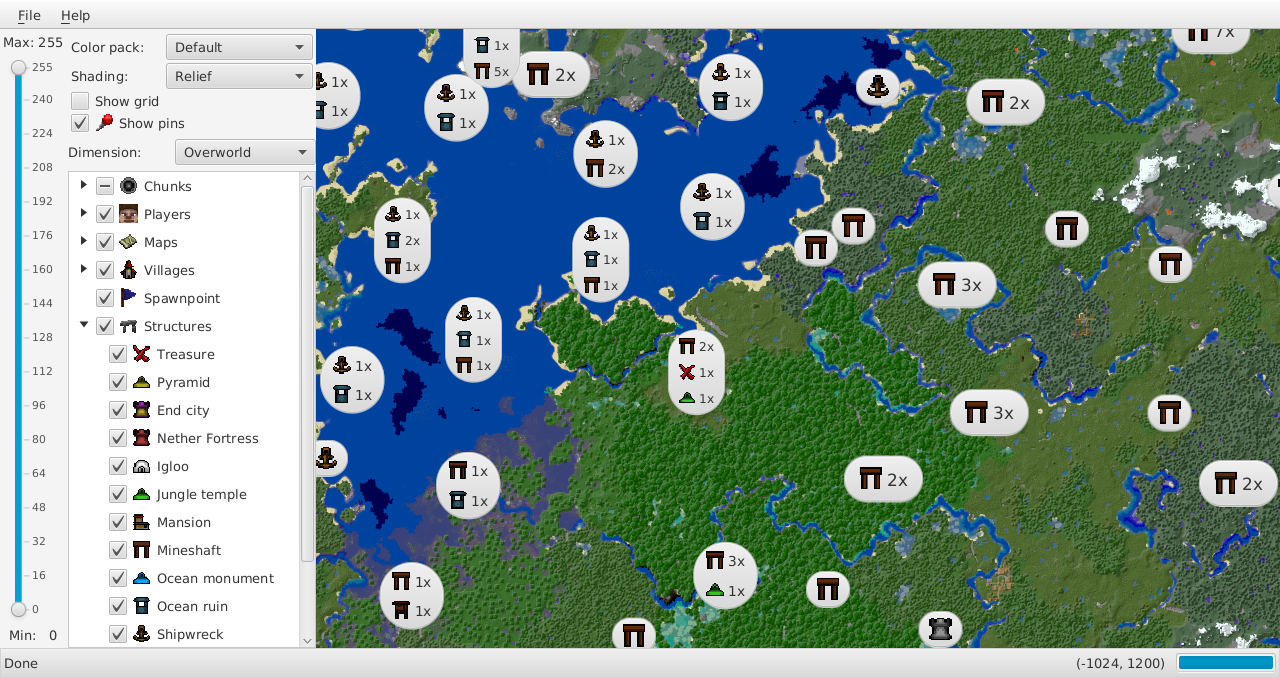
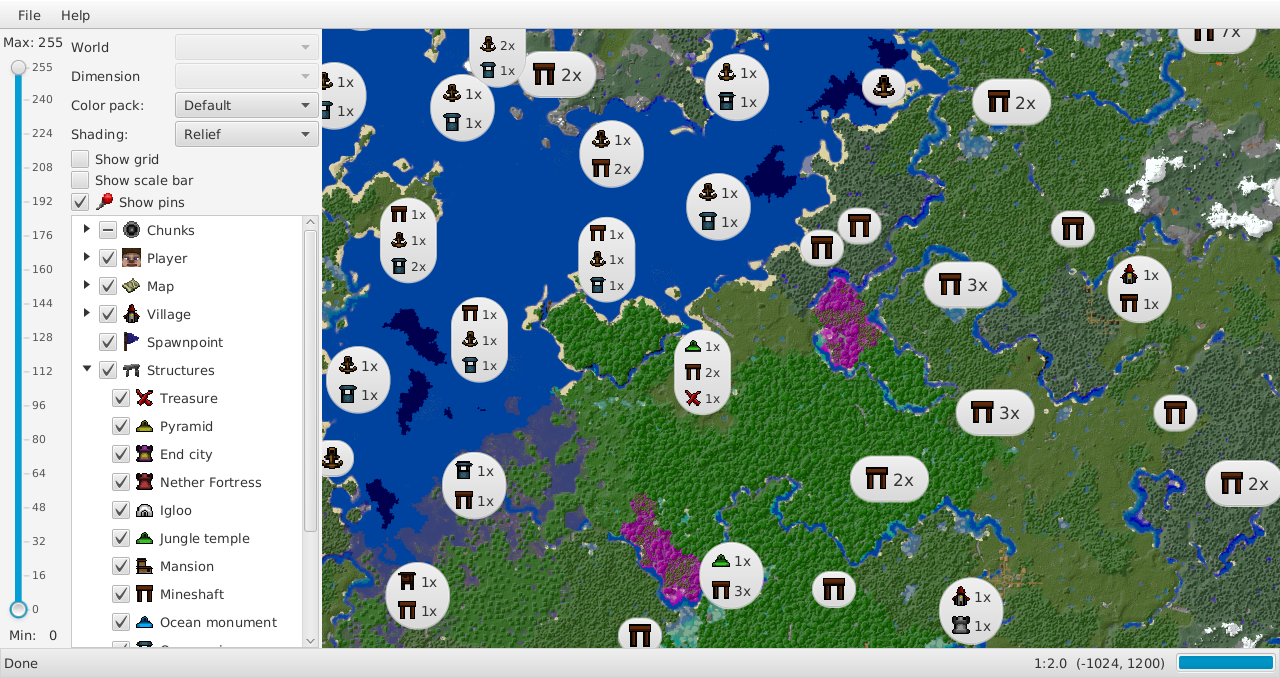
Documentation + Version bump
1.4.0

diff --git a/BlockMap-standalone/src/main/java/de/piegames/blockmap/standalone/VersionProvider.java b/BlockMap-standalone/src/main/java/de/piegames/blockmap/standalone/VersionProvider.java
@@ -8,7 +8,7 @@ public class VersionProvider implements IVersionProvider {
 	public String[] getVersion() throws Exception {
 		/* This part of the code gets generated automatically through `gradle generateSources`. Do not modify! */
 		// $REPLACE_START
-		return new String[] { "1.3.0" };
+		return new String[] { "1.4.0" };
 		// $REPLACE_END
 	}
 }

diff --git a/README.md b/README.md
@@ -1,6 +1,8 @@
-# BlockMap - A Minecraft 1.13 world viewer
+# BlockMap - A Minecraft 1.13/1.14 world viewer
 
 [![Build Status](https://saibotk.de/buildstatus.php)]()
+
+<img src="BlockMap-standalone/src/main/resources/de/piegames/blockmap/guistandalone/icon.png" width=150/>
 
 *This started as fork of [TMCMR](https://github.com/TOGoS/TMCMR), but has been almost completely rewritten due to the update. If you want something stable that works with 1.12 and before worlds, go check it out.*
 
@@ -32,16 +34,16 @@ Download the latest version from the [Release page](https://github.com/piegamesd
 
 The GUI version should just run by (double)clicking it. Otherwise run it through:
 
-    java -jar BlockMap-1.3.0.jar
+    java -jar BlockMap-1.4.0.jar
 
 to start. If you want to use BlockMap through the command line without GUI (not only for scripts),
 
     # For general usage help
-    java -jar BlockMap-1.3.0.jar help
+    java -jar BlockMap-1.4.0.jar help
     # For help about rendering worlds to a folder
-    java -jar BlockMap-1.3.0.jar help render
+    java -jar BlockMap-1.4.0.jar help render
     # For help about saving rendered worlds
-    java -jar BlockMap-1.3.0.jar render help save
+    java -jar BlockMap-1.4.0.jar render help save
 
 will get you started. On Linux even with colors!
 
@@ -74,6 +76,20 @@ All screenshots (see them below) are generated automatically through the gradle 
 **Notice — run from Gradle:**
 
 There is a bug in JavaFX that currently prevents the `run` task to work, so as a workaround use `./gradlew run2` for now.
+
+**Quick start:**
+
+    git clone https://github.com/Minecraft-Technik-Wiki/BlockMap
+    cd BlockMap
+    ./gradlew regenerate
+    ./gradlew run2
+
+## Troubleshooting
+
+If you cannot start the GUI and you get errors similar to
+
+    java.lang.IllegalAccessError: superclass access check failed: class impl.org.controlsfx.behavior.RangeSliderBehavior (in unnamed module @0xa1d113b) cannot access class com.sun.javafx.scene.control.behavior.BehaviorBase (in module javafx.controls) because module javafx.controls does not export com.sun.javafx.scene.control.behavior to unnamed module @0xa1d113b
+please try the *Quick start* section above. This is a known JavaFX bug, please try the workaround before reporting.
 
 ## Gallery
 

diff --git a/changelog.md b/changelog.md
@@ -1,7 +1,29 @@
 # Changelog
 
-## Version 1.3.0
+## Version 1.4.0
 ## Changes
+- Updated to 1.14
+	- 1.13 worlds and chunks still work
+	- 1.14 villages are recognized
+	- New biome colors and other details are still missing (help appreciated!)
+- Improved GUI
+	- Minor pin improvements
+	- Added "about" dialog
+	- Keyboard shortcuts
+	- Splash screen
+	- Improved startup performance
+	- Everything is cached now, so it should be a lot faster
+- New world save format and command line options
+- Bug fixes
+- New bugs
+
+## Backwards-compatibility
+The save format and command line have changed, and it is not backwards-compatible to BlockMap 1.3.0.
+If you use BlockMap on a server, you'll need to update the server script and older clients won't be able
+to open the worlds anymore.
+
+## Version 1.3.0
+### Changes
 - Added Pins
 	- They contain information about the world and the render process (did it fail?)
 	- Save them together with your rendered world
